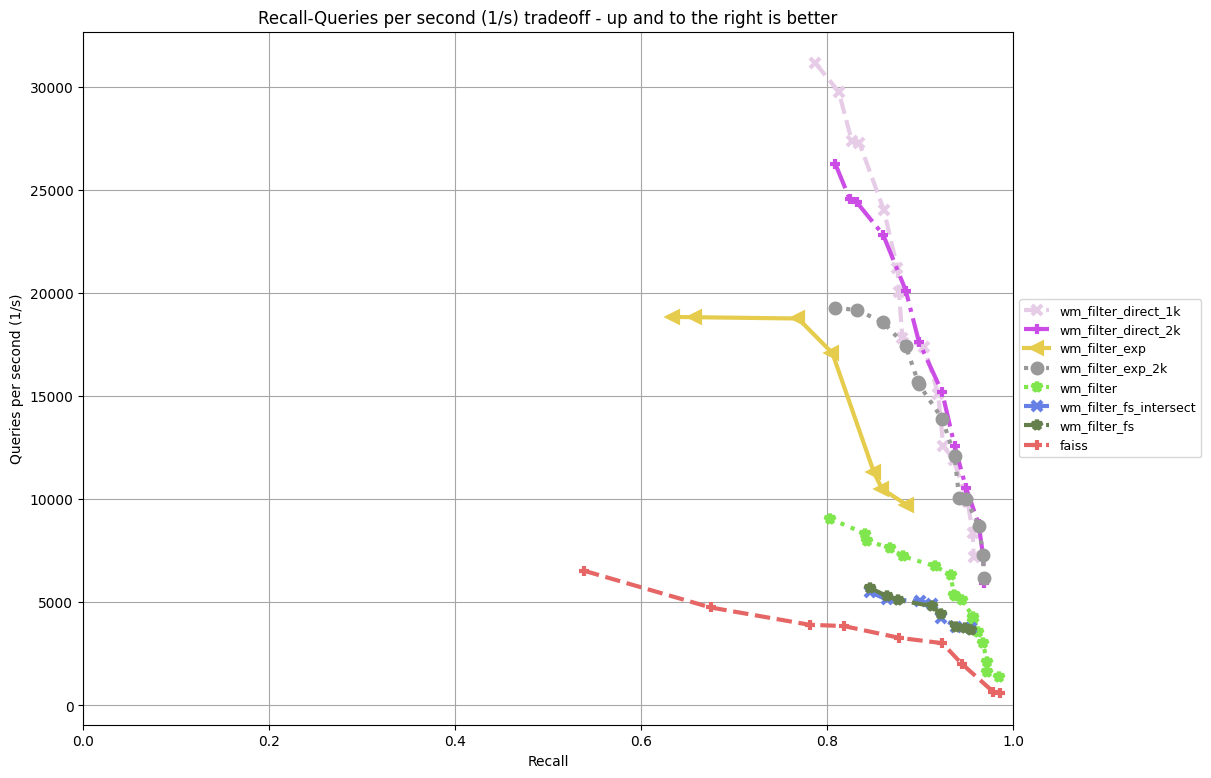
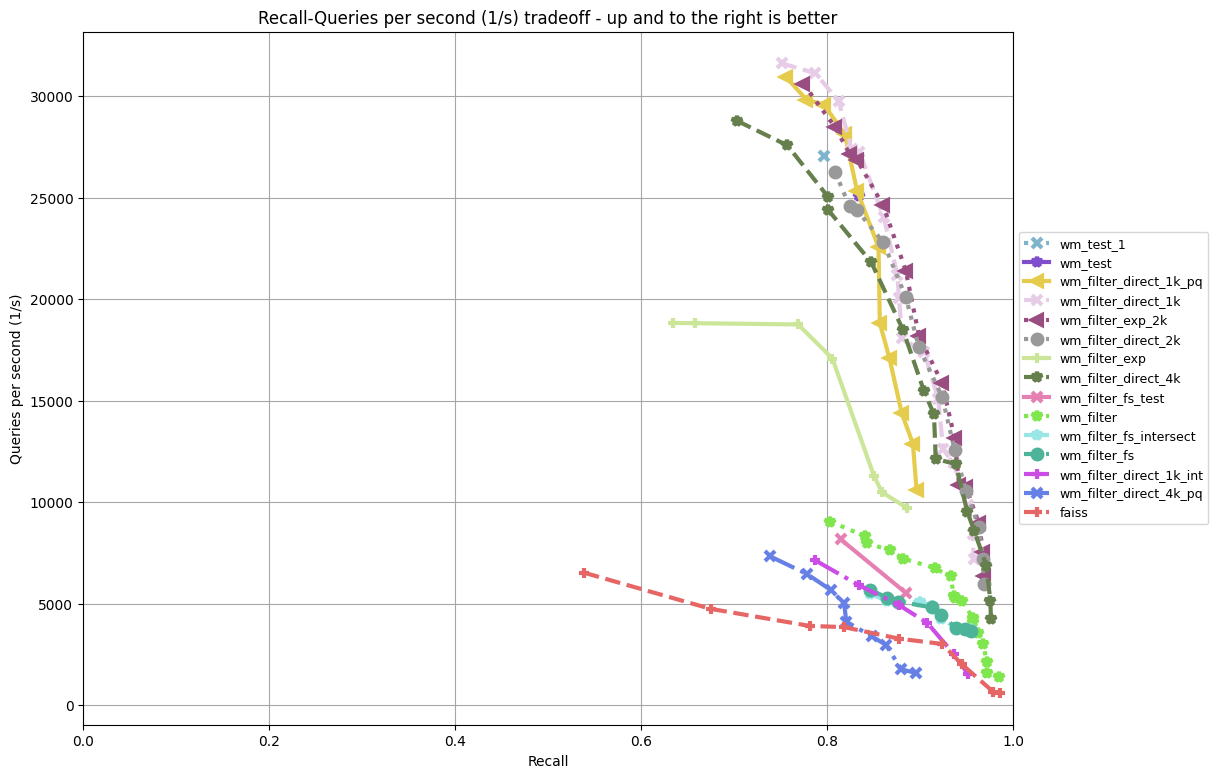
removed stats printing, extended tests

diff --git a/neurips23/filter/wm_filter/wm_filter.py b/neurips23/filter/wm_filter/wm_filter.py
@@ -57,8 +57,10 @@ def print_stats():
     find_cluster = faiss.cvar.IDSelectorMy_Stats.find_cluster/m
     set_list_time = faiss.cvar.IDSelectorMy_Stats.set_list_time/m
     scan_codes =  faiss.cvar.IDSelectorMy_Stats.scan_codes/m
+    one_list = faiss.cvar.IDSelectorMy_Stats.one_list/m
+    extra = faiss.cvar.IDSelectorMy_Stats.extra / m
     inter_plus_find = intersection + find_cluster
-    print('intersection: {}, find_cluster: {}, intersection+ find cluster: {},  set list time: {}, scan_codes: {}'.format(intersection, find_cluster, inter_plus_find, set_list_time, scan_codes))
+    print('intersection: {}, find_cluster: {}, intersection+ find cluster: {},  set list time: {}, scan_codes: {}, one list: {}, extra: {}'.format(intersection, find_cluster, inter_plus_find, set_list_time, scan_codes, one_list, extra))
 
 
 def spot_check_filter(docs_per_word, index, indices, limits, clusters, cluster_limits):
@@ -428,8 +430,8 @@ class FAISS(BaseFilterANN):
 
 
         # delete not necessary data
-        del self.xb
-        del ds
+        #del self.xb
+        #del ds
         if self.type == "exp" or self.type == 'direct':
             print(" deleting indices")
             del self.indices
@@ -518,7 +520,7 @@ class FAISS(BaseFilterANN):
             else:
 
                 if thread not in selector_by_thread:
-                    print('generating selector')
+
                     # IVF first, filtered search
                     if self.type == 'simple':
                         sel = make_id_selector_ivf_two(self.docs_per_word)
@@ -546,12 +548,14 @@ class FAISS(BaseFilterANN):
 
 
         if self.nt <= 1:
-        #print_stats()
+            #print_stats()
         #if True:
             for q in range(nq):
                 process_one_row(q)
+                #print_stats()
 
         else:
+            print('threading')
             faiss.omp_set_num_threads(self.nt)
 
             pool = ThreadPool(self.nt)
